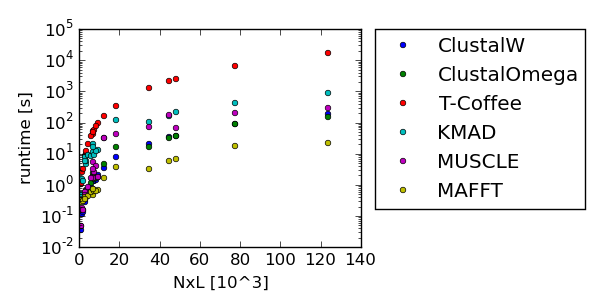
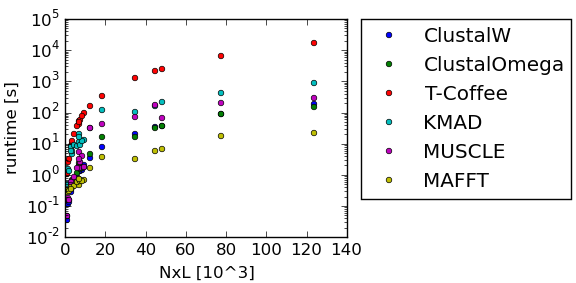
add paths to alignment methods on cmbi23

diff --git a/kmad_web/frontend/templates/dashboard/additional_information.html b/kmad_web/frontend/templates/dashboard/additional_information.html
@@ -393,15 +393,17 @@ Additional information
     <br>
     <br>
     <div class="row">
-      <div class="col-md-4">
+      <div class="col-md-6">
         <img src="{{ url_for('static',
         filename='images/reviewer_comments/performance_plots/seq_numbers_log.png')}}">
       </div>
-      <div class="col-md-4">
+      <div class="col-md-6">
         <img src="{{ url_for('static',
         filename='images/reviewer_comments/performance_plots/seq_lengths_log.png')}}">
       </div>
-      <div class="col-md-4">
+      </div>
+    <div class="row">
+      <div class="col-md-6">
         <img src="{{ url_for('static',
         filename='images/reviewer_comments/performance_plots/nxl_log.png')}}">
       </div>

diff --git a/kmad_web/services/msa_tools.py b/kmad_web/services/msa_tools.py
@@ -1,16 +1,20 @@
+import os
 import subprocess
+
+from kmad_web import paths as p
 
 
 def run_preliminary_alignment(fastafile, method):
     if method == "t_coffee":
-        args = ["t_coffee", fastafile, "-output", "fasta_aln",
-                "-outfile", fastafile + "_prel_al"]
+        args = [os.path.join(p.KMAD_WEB_BIN, "t_coffee"), fastafile, "-output",
+                "fasta_aln", "-outfile", fastafile + "_prel_al"]
     elif method == "muscle":
-        args = ["muscle", "-in", fastafile, "-out", fastafile + '_prel_al']
+        args = [os.path.join(p.KMAD_WEB_BIN, "muscle"), "-in", fastafile,
+                "-out", fastafile + '_prel_al']
     elif method == "clustalo":
         args = ["clustalo", "-i", fastafile, "-o", fastafile + '_prel_al']
     elif method == "mafft":
-        args = ["mafft", fastafile]
+        args = [os.path.join(p.KMAD_WEB_BIN, "mafft"), fastafile]
     elif method == "clustalw":
         args = ["clustalw2", "-INFILE={}".format(fastafile),
                 "-OUTFILE={}_prel_al".format(fastafile), "-OUTPUT=FASTA",

diff --git a/kmad_web/paths.py b/kmad_web/paths.py
@@ -7,6 +7,6 @@ PSIPRED_PATH = "/usr/local/src/psipred/runpsipred"
 SWISSPROT_DB = "/data/blast/sprot"
 ELM_DB_GO_COMPLETE = "kmad_web/frontend/static/dbs/elm_complete.txt"
 MAMMAL_IDS = "kmad_web/frontend/static/dbs/mammal_ids.txt"
-
+KMAD_WEB_BIN = "/srv/www/kmad-web/bin"
 UNIPROT_DAT_DIR = "/home/joanna/data/uniprot_dat/"
 extension = {"disopred": ".diso", "psipred": ".ss2", "predisorder": ".predisorder", "spine": ".spd"}
